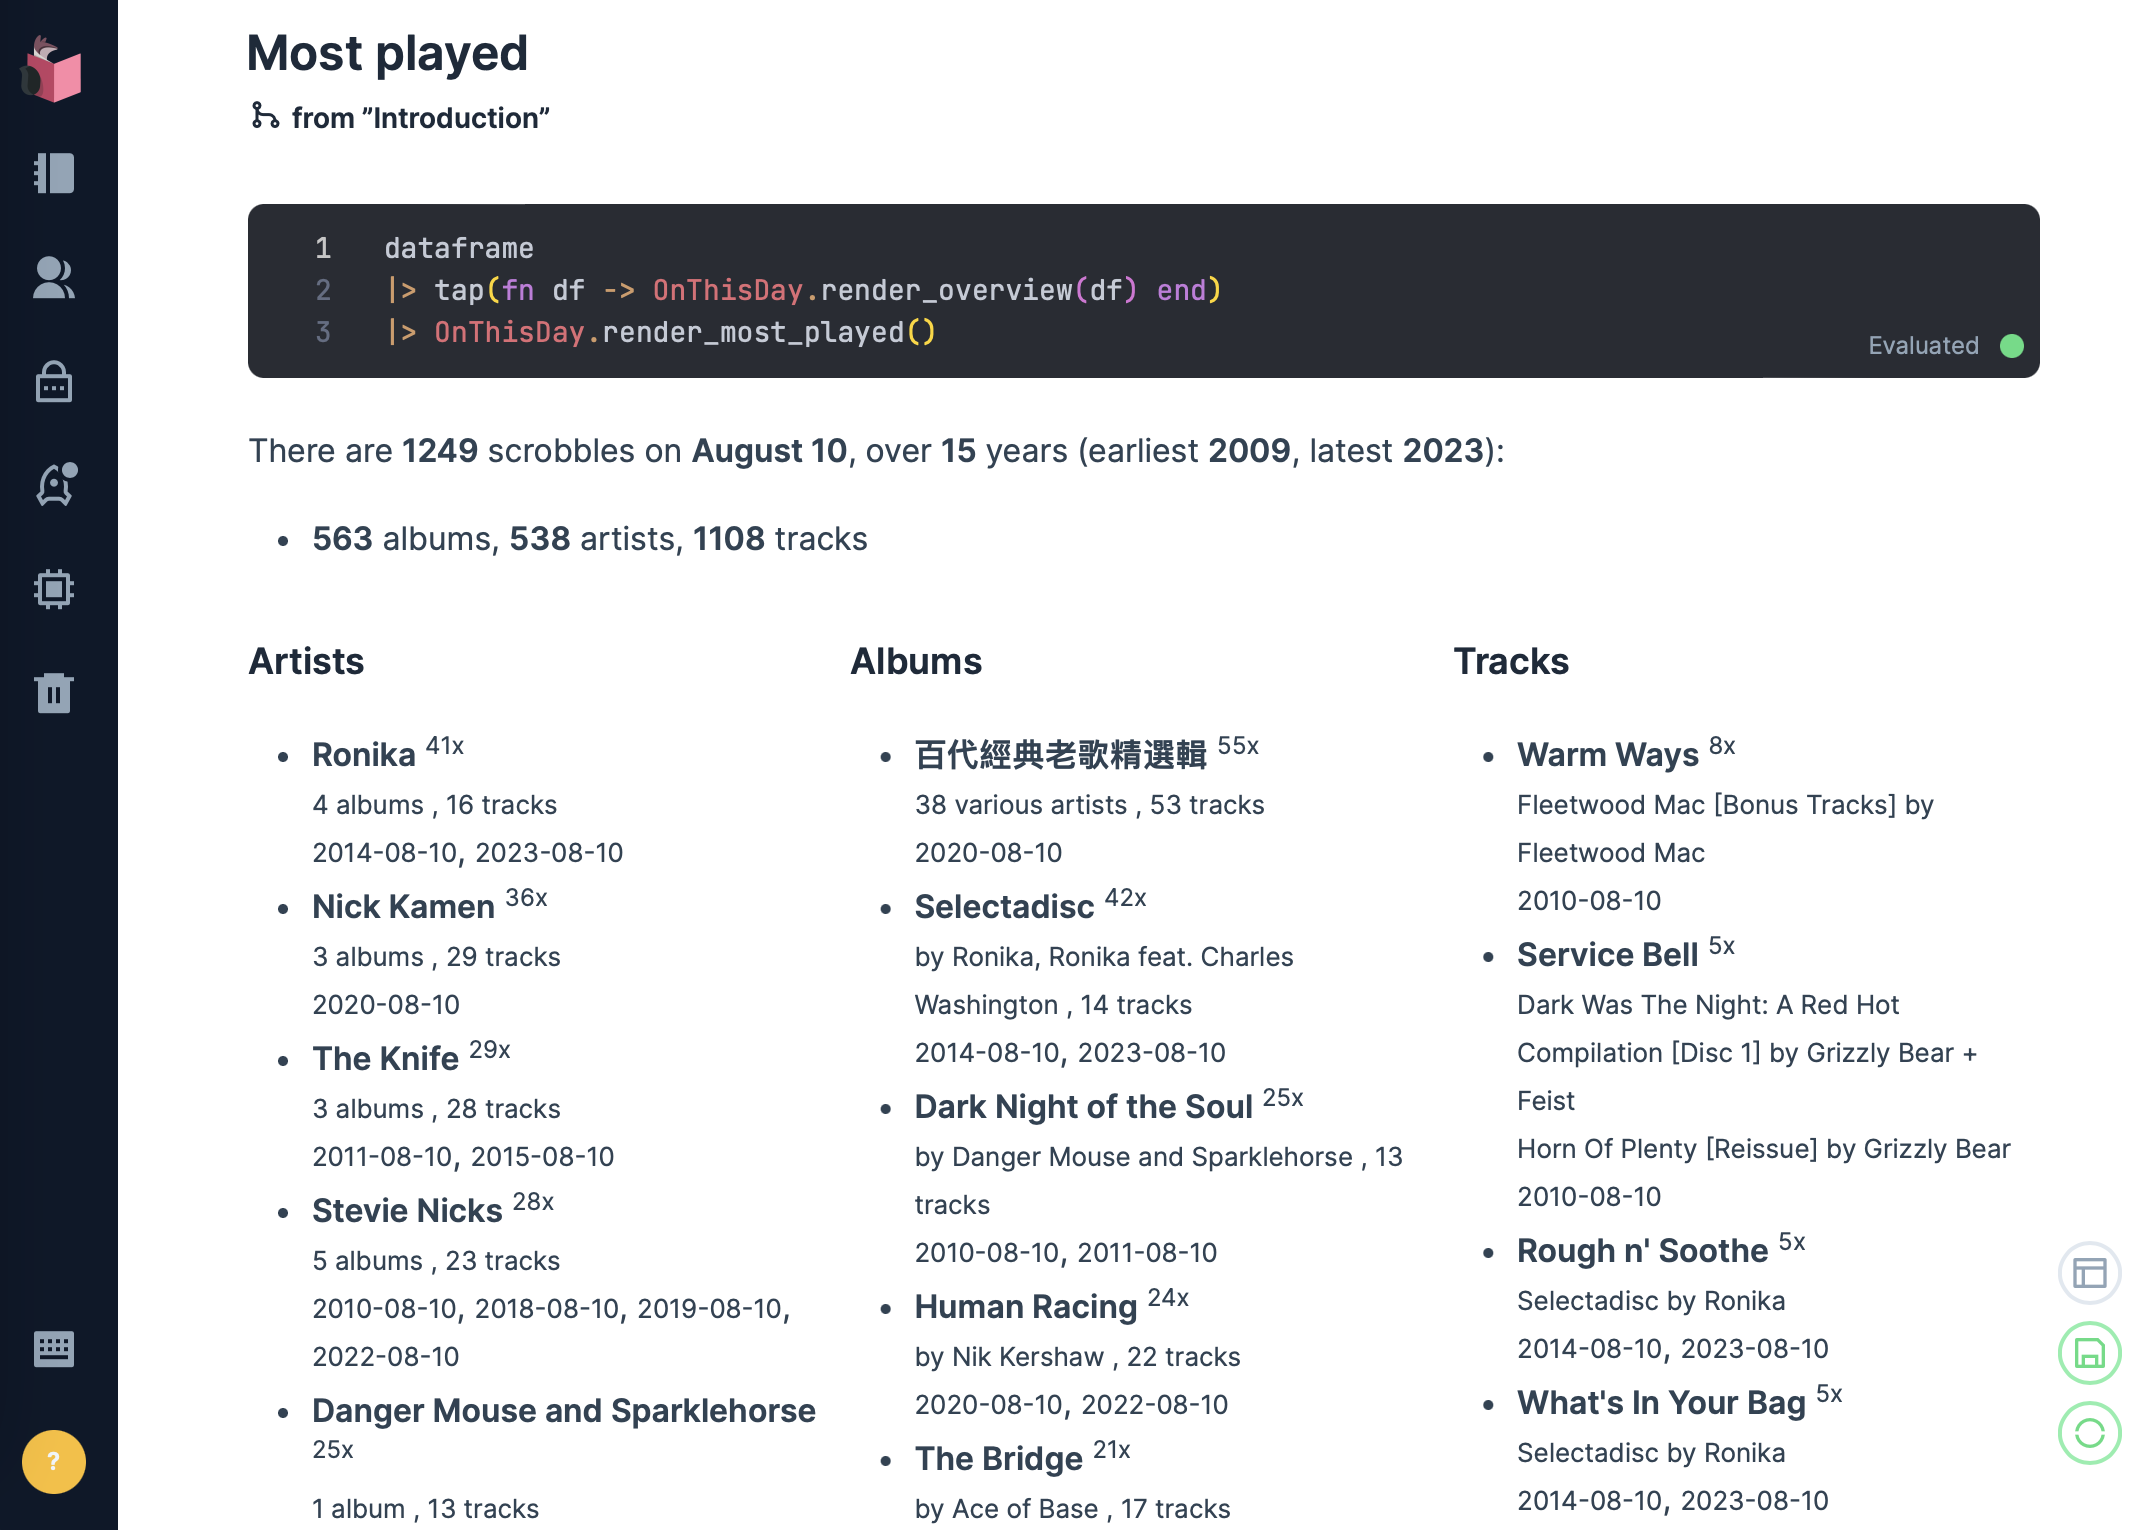
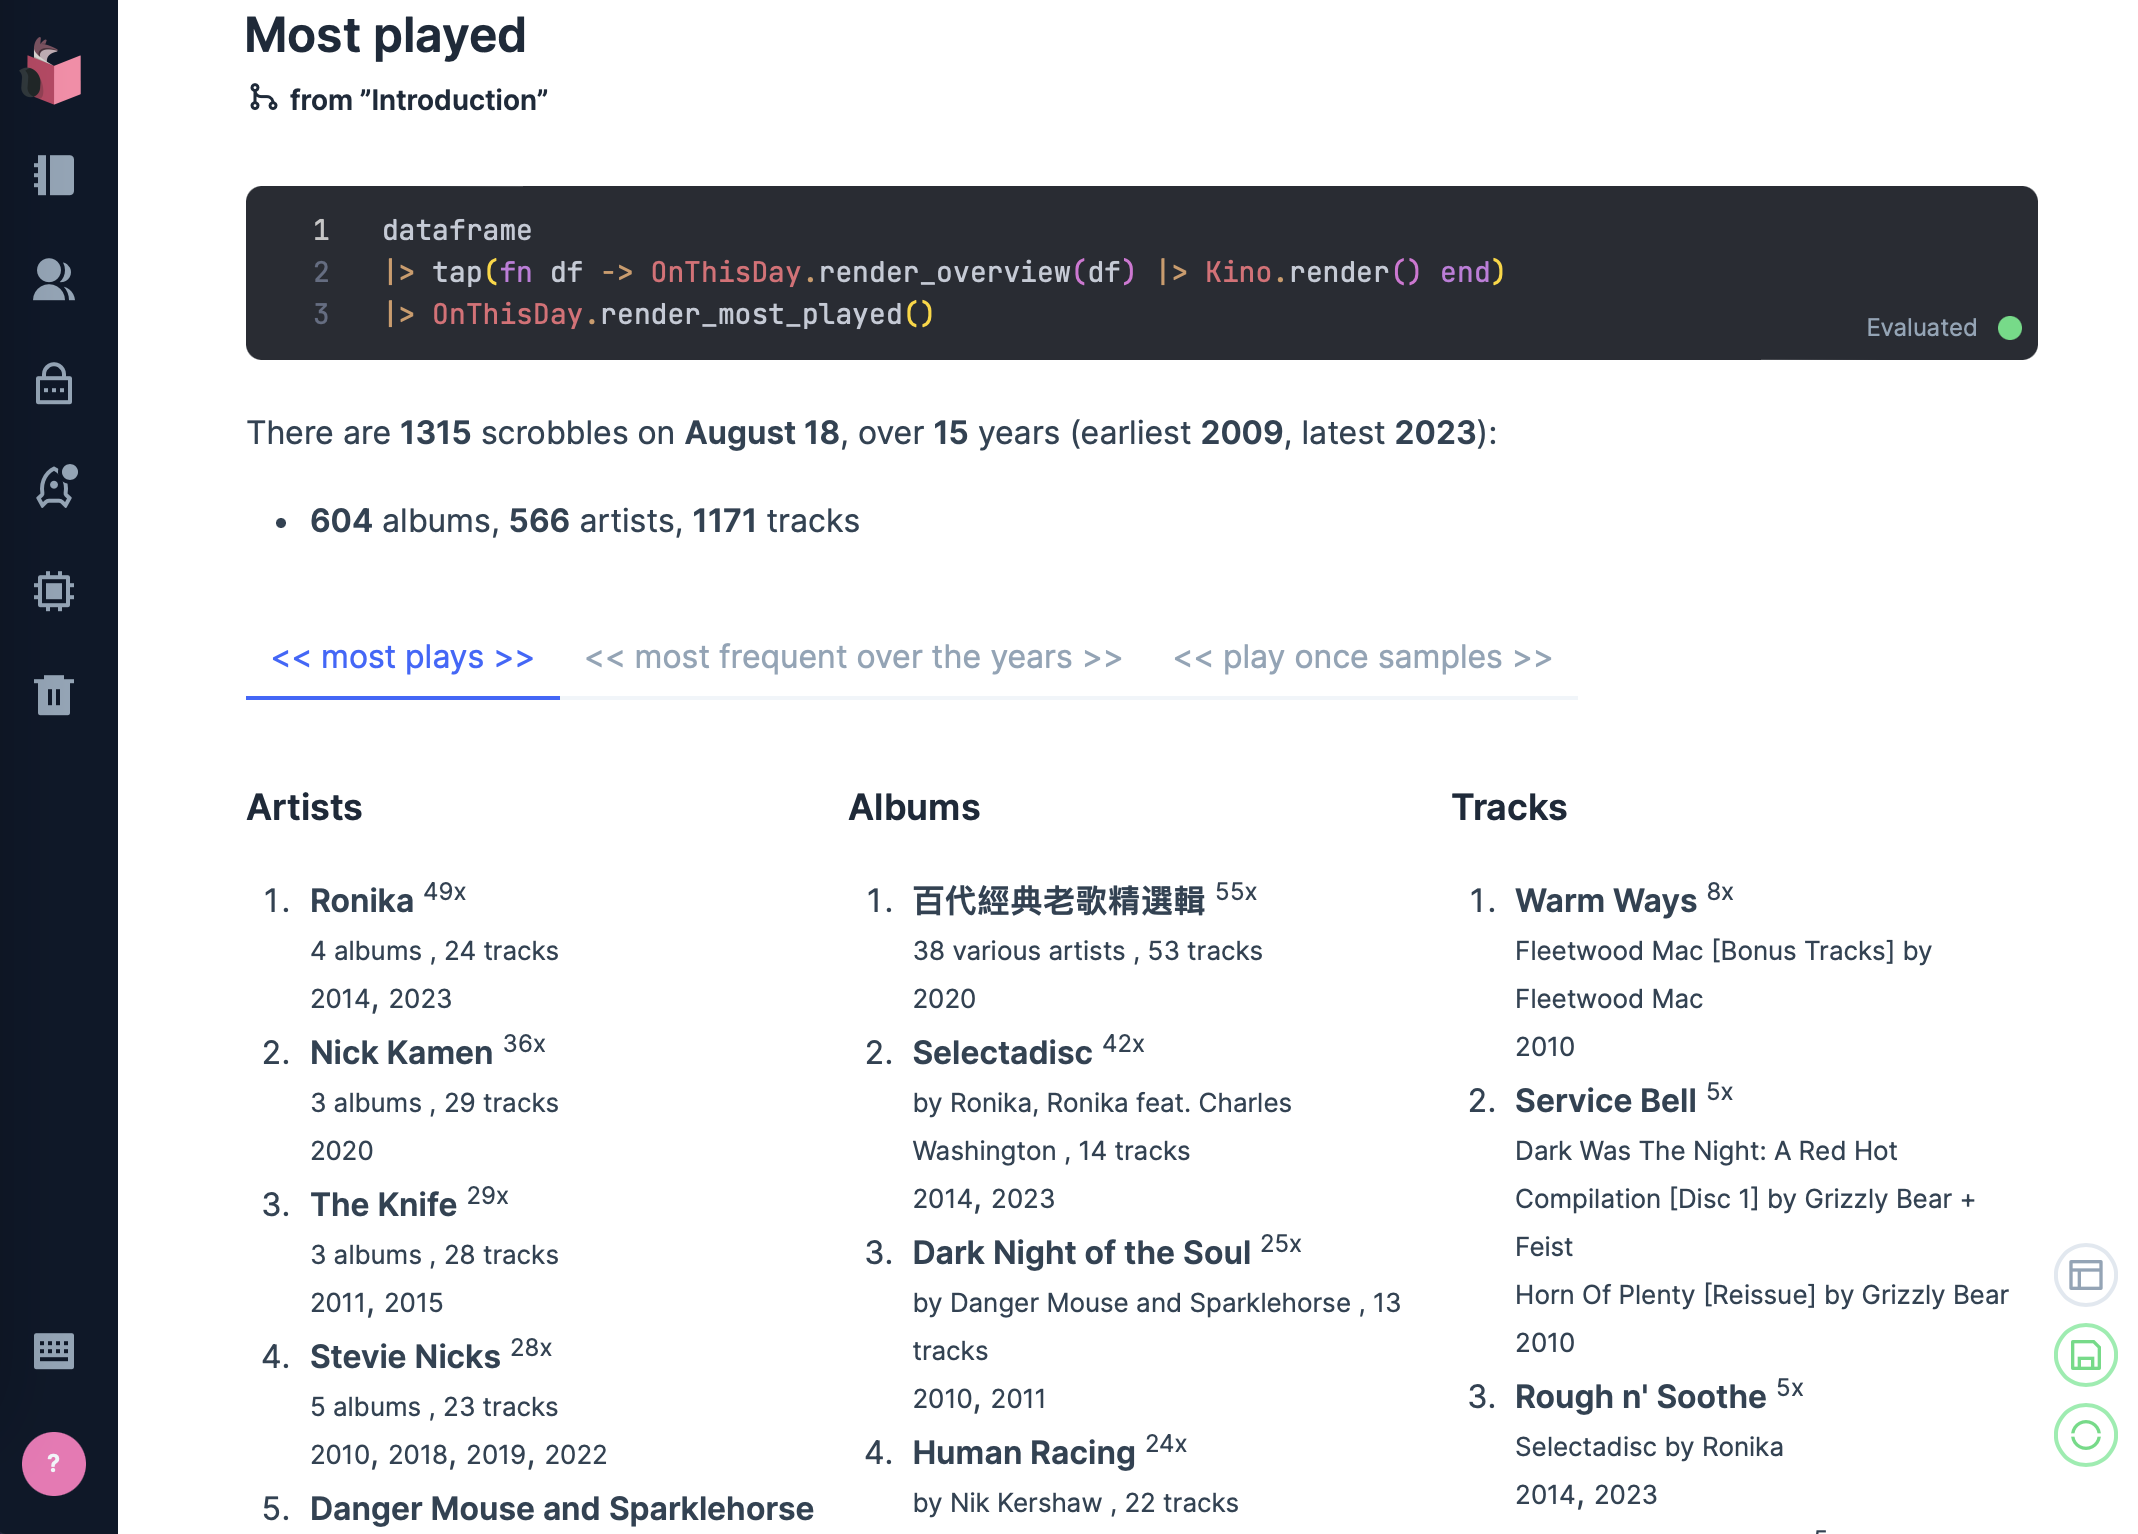
chore: bump to v.0.11.1

diff --git a/CHANGELOG.md b/CHANGELOG.md
@@ -1,4 +1,10 @@
 # Changelog
+## 0.11.1 (2023-08-21)
+
+* most-frequent, play-once samples analytics for on-this-day Livebook page
+* fine-grained `Transformer` behaviour with default implementation and base transformer
+* refactor: rename `name` column (of songs) in columnar storage to `track` 
+
 ## 0.11.0 (2023-08-11)
 
 * new `Analytics` (generated callbacks) and `LivebookAnalytics` behaviours, with default implementations to separate the concerns of data frame analytics and Livebook rendering
